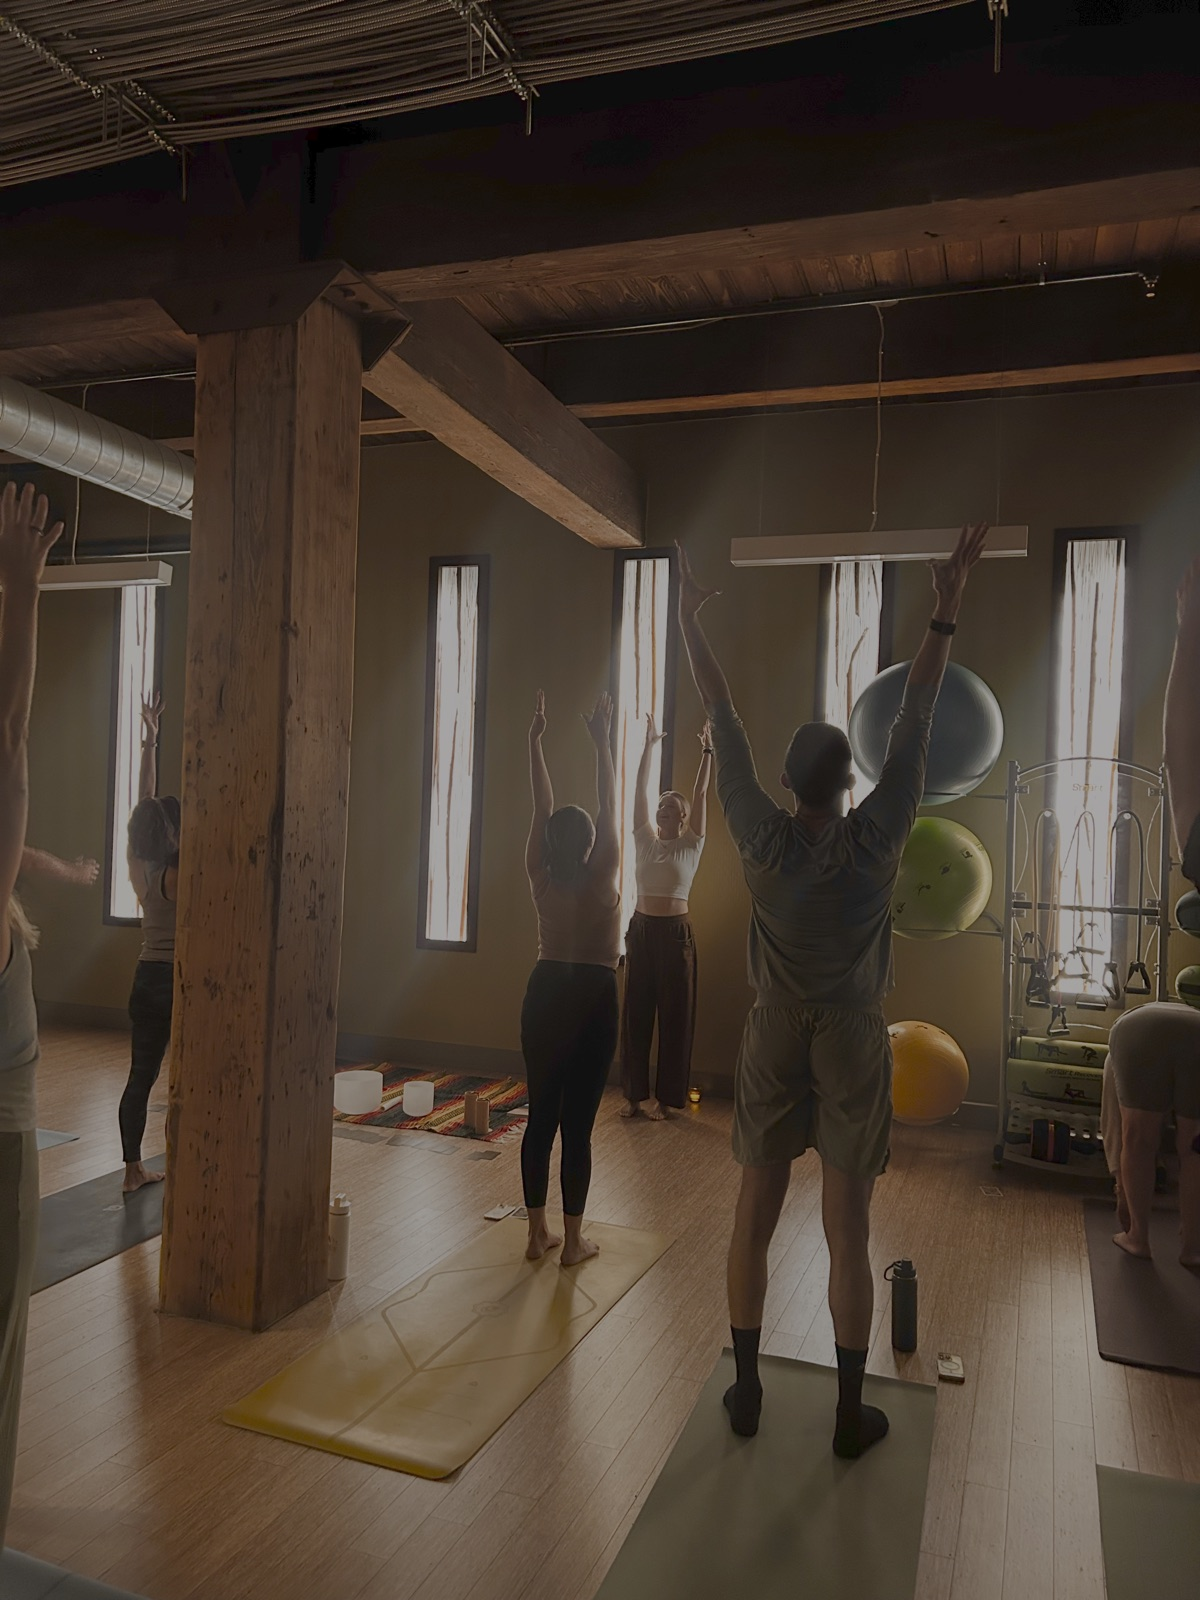
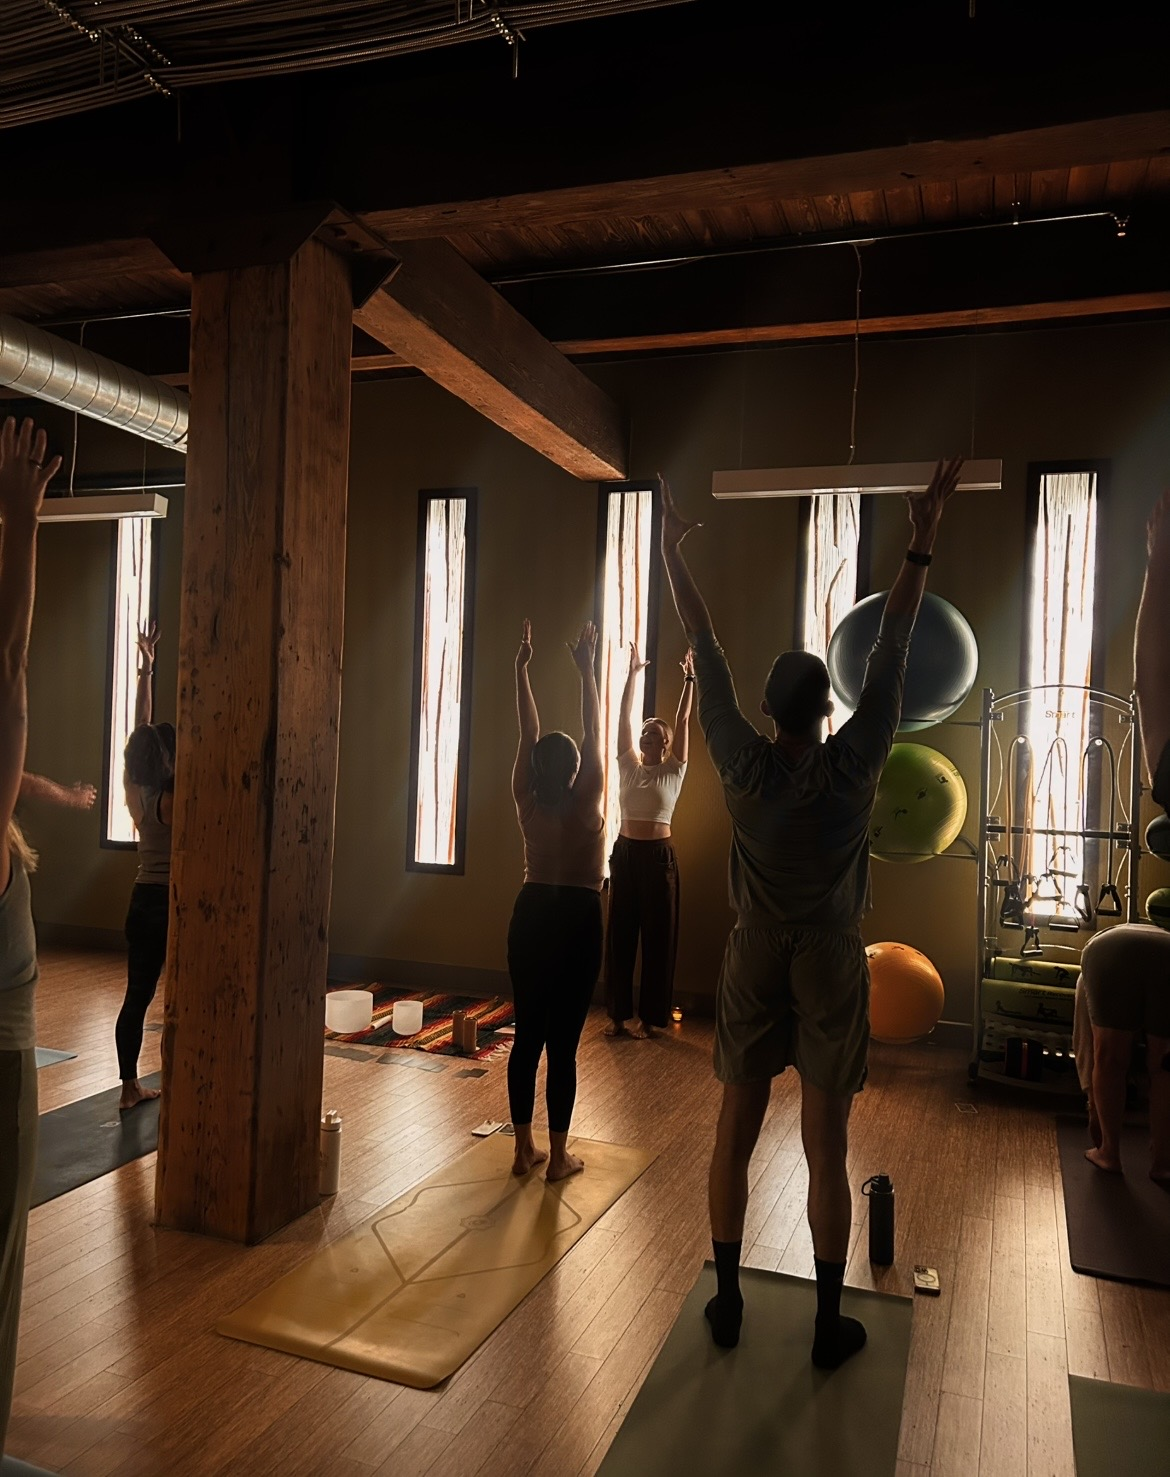
Add founder portraits, remove gallery captions, refresh photos

diff --git a/index.html b/index.html
@@ -228,6 +228,7 @@ form.book { background: var(--card); color: var(--card-ink); border-radius: var(
 @media (max-width: 880px) { .team { grid-template-columns: 1fr; } }
 .person { display: flex; flex-direction: column; gap: 18px; }
 .portrait { aspect-ratio: 4/3; border-radius: var(--r); overflow: hidden; position: relative; display: grid; place-items: center; margin: 0; }
+.portrait img { position: absolute; inset: 0; width: 100%; height: 100%; object-fit: cover; object-position: 50% 30%; }
 .portrait .ph { width: 38%; max-width: 126px; opacity: .34; color: #FFF6EB; }
 .portrait figcaption { position: absolute; left: 18px; bottom: 15px; font-family: var(--ff-k); font-weight: 700; font-size: 13.5px; letter-spacing: .1em; text-transform: uppercase; color: rgba(255,247,238,.9); }
 .person h3 { font-size: 35px; }
@@ -498,10 +499,7 @@ form.book { background: var(--card); color: var(--card-ink); border-radius: var(
     </div>
     <div class="team">
       <article class="person">
-        <figure class="portrait" style="background: linear-gradient(150deg, #8A4326 0%, #C9552A 55%, #E88B4C 100%);">
-          <svg class="ph" viewBox="0 0 93 83" aria-hidden="true"><use href="#sfc-mark"/></svg>
-          <figcaption>Photo of Megan</figcaption>
-        </figure>
+        <figure class="portrait"><img src="images/megan.jpg" alt="Portrait of Megan" loading="lazy"></figure>
         <div>
           <h3>Megan Rottkamp</h3>
           <p class="role">Co-founder &middot; Movement &amp; flow</p>
@@ -514,10 +512,7 @@ form.book { background: var(--card); color: var(--card-ink); border-radius: var(
         </div>
       </article>
       <article class="person">
-        <figure class="portrait" style="background: linear-gradient(150deg, #4A5138 0%, #6E6B4E 52%, #9FAA86 100%);">
-          <svg class="ph" viewBox="0 0 93 83" aria-hidden="true"><use href="#sfc-mark"/></svg>
-          <figcaption>Photo of Anna</figcaption>
-        </figure>
+        <figure class="portrait"><img src="images/anna.jpg" alt="Portrait of Anna" loading="lazy"></figure>
         <div>
           <h3>Anna Barton</h3>
           <p class="role">Co-founder &middot; Stillness &amp; sound</p>
@@ -544,17 +539,17 @@ form.book { background: var(--card); color: var(--card-ink); border-radius: var(
       <p class="lede">Rooftops, living rooms, boardrooms with the chairs pushed back, and even the Hoboken Pier.</p>
     </div>
     <div class="gal">
-      <figure class="tile tall"><img src="images/rooftop-sunset-flow.jpg" alt="A group practicing yoga on a rooftop lawn above the city skyline, framed by leaves" loading="lazy"><figcaption>Rooftop sunset flow &middot; Modera Lofts</figcaption></figure>
-      <figure class="tile tall"><img src="images/studio-shot.jpg" alt="A practitioner seated on a rug playing three crystal singing bowls beside a tall window with an iron balcony and autumn trees" loading="lazy"><figcaption>Studio sound bath</figcaption></figure>
-      <figure class="tile tall"><img src="images/rooftop-stretch.jpg" alt="A group in a seated side stretch on a rooftop lawn at dusk, lit-up apartment towers behind them" loading="lazy"><figcaption>Rooftop stretch at dusk</figcaption></figure>
-      <figure class="tile wide"><img src="images/corporate-sound-bath.jpg" alt="A practitioner seated behind three crystal singing bowls on a conference room table" loading="lazy"><figcaption>Corporate sound bath &middot; NYC</figcaption></figure>
-      <figure class="tile wide"><img src="images/workevent.jpg" alt="A video call showing a sunset-orange slide reading Thank you for all that you do, with the session leader on camera" loading="lazy"><figcaption>Virtual team session</figcaption></figure>
-      <figure class="tile square"><img src="images/bowls-closeup.jpg" alt="Overhead view of crystal singing bowls on a woven blanket, a hand playing one with a mallet, oracle cards fanned out on the grass" loading="lazy"><figcaption>Crystal bowls, close up</figcaption></figure>
-      <figure class="tile"><img src="images/pier-yoga.jpg" alt="Yoga on the pier during a bridal weekend" loading="lazy"><figcaption>Bridal weekend &middot; Hudson Valley</figcaption></figure>
-      <figure class="tile square"><img src="images/hoboken-pier.jpg" alt="A group in triangle pose on the lawn at the Hoboken waterfront, with the Manhattan skyline across the river" loading="lazy"><figcaption>Pier flow &middot; Hoboken</figcaption></figure>
-      <figure class="tile half square"><img src="images/indoor.jpg" alt="A group reaching their arms overhead in a sunlit loft studio with wooden beams and tall narrow windows" loading="lazy"><figcaption>Indoor group flow</figcaption></figure>
-      <figure class="tile half square"><img src="images/sunset-bowl.jpg" alt="A hand playing a crystal singing bowl on a striped blanket on a rooftop lawn, a candle and shakers nearby, city towers under a pink sunset sky" loading="lazy"><figcaption>Sunset sound bath &middot; rooftop</figcaption></figure>
-      <!-- placeholder, hidden for now: <figure class="tile" style="background: linear-gradient(155deg, #4A3B31, #97705A 68%, #D6A87F);"><svg class="ph" viewBox="0 0 93 83" aria-hidden="true"><use href="#sfc-mark"/></svg><figcaption>Private reiki session</figcaption></figure> -->
+      <figure class="tile tall"><img src="images/rooftop-sunset-flow.jpg" alt="A group practicing yoga on a rooftop lawn above the city skyline, framed by leaves" loading="lazy"></figure>
+      <figure class="tile tall"><img src="images/studio-shot.jpg" alt="A practitioner seated on a rug playing three crystal singing bowls beside a tall window with an iron balcony and autumn trees" loading="lazy"></figure>
+      <figure class="tile tall"><img src="images/rooftop-stretch.jpg" alt="A group in a seated side stretch on a rooftop lawn at dusk, lit-up apartment towers behind them" loading="lazy"></figure>
+      <figure class="tile wide"><img src="images/corporate-sound-bath.jpg" alt="A practitioner seated behind three crystal singing bowls on a conference room table" loading="lazy"></figure>
+      <figure class="tile wide"><img src="images/workevent-web.jpg" alt="A video call showing a sunset-orange slide reading Thank you for all that you do, with the session leader on camera" loading="lazy"></figure>
+      <figure class="tile square"><img src="images/bowls-closeup.jpg" alt="Overhead view of crystal singing bowls on a woven blanket, a hand playing one with a mallet, oracle cards fanned out on the grass" loading="lazy"></figure>
+      <figure class="tile"><img src="images/pier-yoga.jpg" alt="Yoga on the pier during a bridal weekend" loading="lazy"></figure>
+      <figure class="tile square"><img src="images/hoboken-pier.jpg" alt="A group in triangle pose on the lawn at the Hoboken waterfront, with the Manhattan skyline across the river" loading="lazy"></figure>
+      <figure class="tile half square"><img src="images/indoor.jpg" alt="A group reaching their arms overhead in a sunlit loft studio with wooden beams and tall narrow windows" loading="lazy"></figure>
+      <figure class="tile half square"><img src="images/sunset-bowl.jpg" alt="A hand playing a crystal singing bowl on a striped blanket on a rooftop lawn, a candle and shakers nearby, city towers under a pink sunset sky" loading="lazy"></figure>
+      <!-- placeholder, hidden for now: <figure class="tile" style="background: linear-gradient(155deg, #4A3B31, #97705A 68%, #D6A87F);"><svg class="ph" viewBox="0 0 93 83" aria-hidden="true"><use href="#sfc-mark"/></svg></figure> -->
     </div>
   </div>
 </section>
